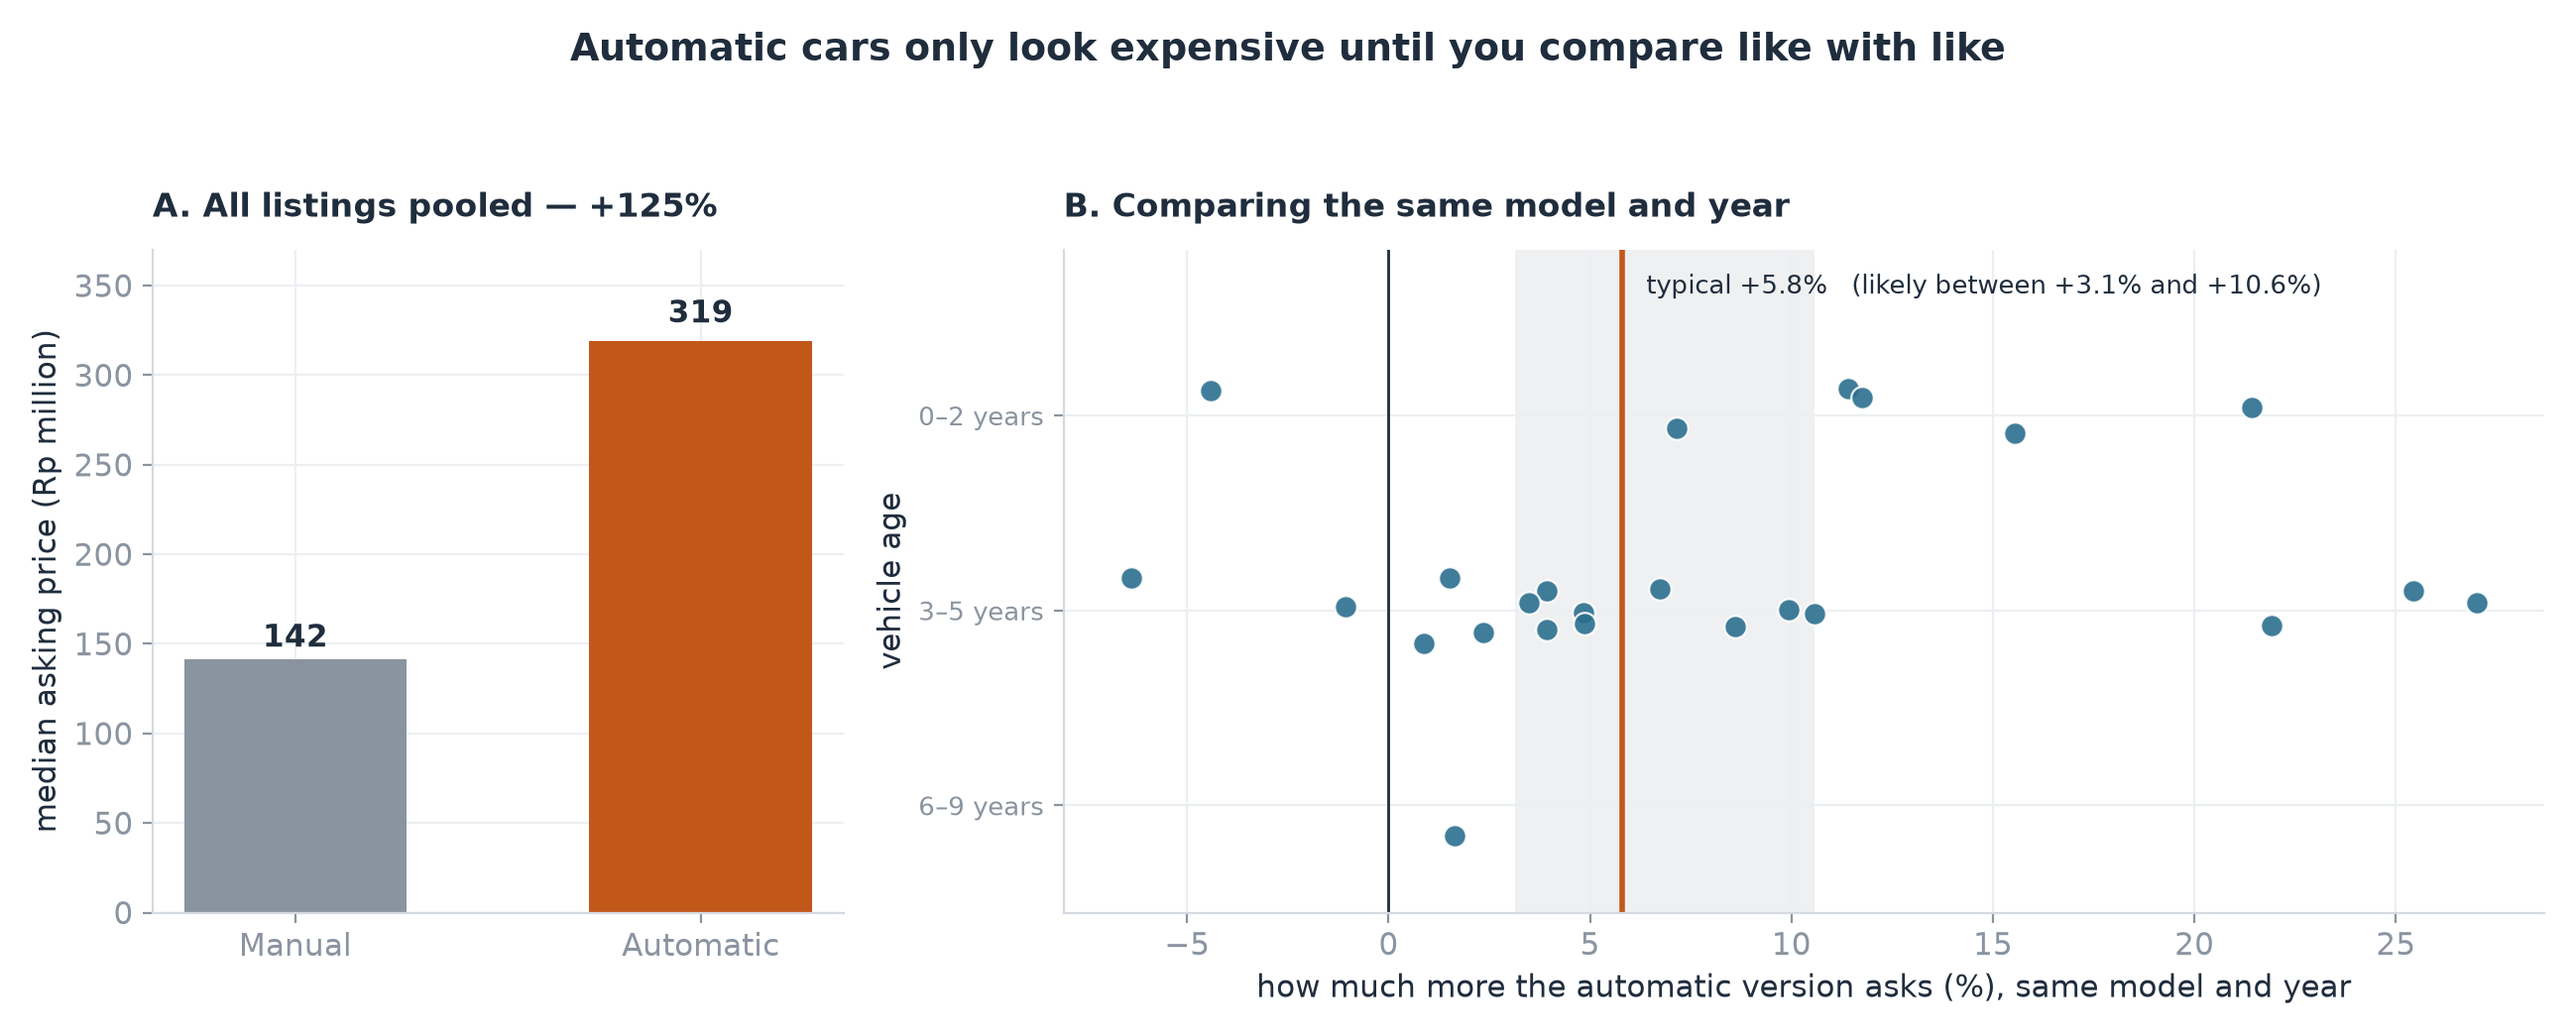
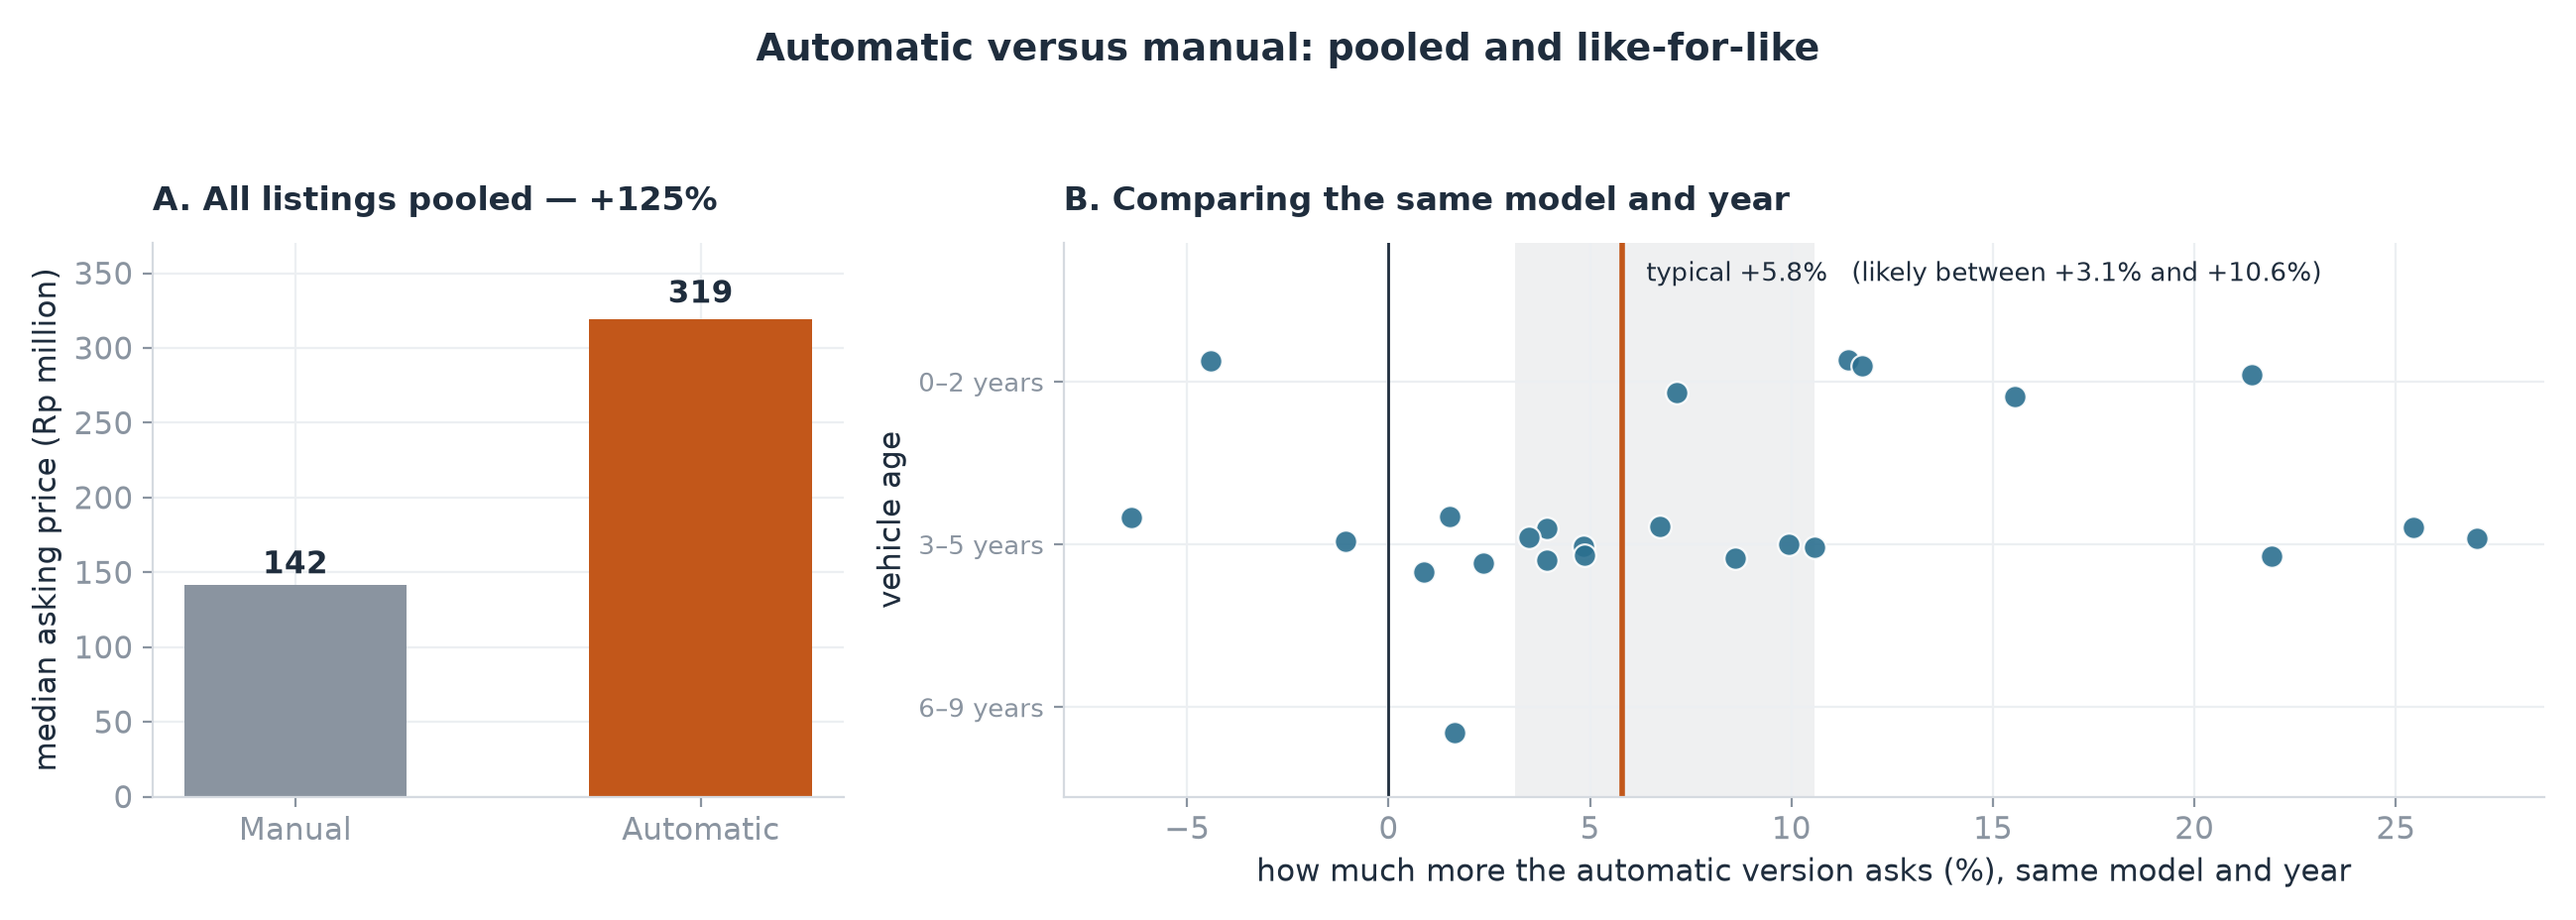
Give charts descriptive titles and tighten the canvas
Replace the finding-style titles with plain descriptive labels such as 'Value lost per year, by brand (%)', centre every title on the figure rather than on the axes, drop the redundant x-axis label on the first chart, shorten the retention-curve y-label so the two rows no longer collide, and reduce the height of the transmission figure and the feature-importance figure.

diff --git a/projects/02-used-car-market/eda.py b/projects/02-used-car-market/eda.py
@@ -154,12 +154,11 @@ def chart_brand_retention(series: pd.DataFrame) -> pd.DataFrame:
         fontsize=10,
     )
     ax.invert_yaxis()
-    ax.set_xlim(0, loss_high.max() + 4)
     ax.set_xticks(range(0, 19, 3))
-    ax.set_xlabel("value lost per year (%)")
-    ax.set_title("Suzuki holds its value best; BMW loses it fastest",
-                 loc="center", pad=16, fontsize=13.5)
-    fig.tight_layout()
+    ax.set_xlim(0, loss_high.max() + 3.5)
+    fig.suptitle("Value lost per year, by brand (%)", x=0.5, y=0.985,
+                 ha="center", va="top", fontsize=13.5, fontweight="bold")
+    fig.tight_layout(rect=[0, 0, 1, 0.93])
     save(fig, "01_brand_retention.png")
     return summary
 
@@ -195,11 +194,11 @@ def chart_retention_curves(df: pd.DataFrame, series: pd.DataFrame) -> None:
     for ax in axes[-1]:
         ax.set_xlabel("age (years)")
     for ax in axes[:, 0]:
-        ax.set_ylabel("price index (100 = a one-year-old unit)")
+        ax.set_ylabel("price index")
     axes[0, 0].set_ylim(0, 145)
     axes[0, 0].set_xticks(range(1, 16, 2))
 
-    fig.suptitle("Every model loses value at its own pace",
+    fig.suptitle("Price index by model and vehicle age",
                  x=0.5, y=0.975, ha="center", va="top",
                  fontsize=13.5, fontweight="bold")
     fig.tight_layout(rect=[0, 0, 1, 0.92])
@@ -237,7 +236,7 @@ def transmission_cells(df: pd.DataFrame) -> pd.DataFrame:
 
 def chart_transmission(df: pd.DataFrame, cells: pd.DataFrame) -> None:
     fig, (ax1, ax2) = plt.subplots(
-        1, 2, figsize=(13, 5.2), gridspec_kw={"width_ratios": [0.7, 1.5]}
+        1, 2, figsize=(13, 4.6), gridspec_kw={"width_ratios": [0.7, 1.5]}
     )
 
     # A - raw comparison
@@ -284,7 +283,7 @@ def chart_transmission(df: pd.DataFrame, cells: pd.DataFrame) -> None:
     ax2.set_xlabel("how much more the automatic version asks (%), same model and year")
     ax2.set_title("B. Comparing the same model and year", loc="left", pad=12)
 
-    fig.suptitle("Automatic cars only look expensive until you compare like with like",
+    fig.suptitle("Automatic versus manual: pooled and like-for-like",
                  x=0.5, y=0.975, ha="center", va="top",
                  fontsize=13.5, fontweight="bold")
     fig.tight_layout(rect=[0, 0, 1, 0.92])
@@ -361,7 +360,7 @@ def chart_mileage(df: pd.DataFrame) -> dict:
     ax2.text(med + 1.2, 0.60, f"typical {abs(med):.1f}% cheaper", ha="left", va="center",
              fontsize=11, color=ACCENT, fontweight="bold")
 
-    fig.suptitle("High mileage looks expensive — until you compare the same model",
+    fig.suptitle("Price by mileage: pooled and like-for-like",
                  x=0.5, y=0.975, ha="center", va="top",
                  fontsize=13.5, fontweight="bold")
     fig.tight_layout(rect=[0, 0, 1, 0.92])
@@ -405,7 +404,7 @@ def chart_structure(df: pd.DataFrame) -> None:
     axes[2].set_xlabel("% of listings")
     axes[2].set_title("Brand origin", loc="left", pad=10)
 
-    fig.suptitle("The marketplace is mostly SUVs from Japanese brands",
+    fig.suptitle("Marketplace composition",
                  x=0.5, ha="center", fontsize=13.5, fontweight="bold")
     fig.tight_layout(rect=[0, 0, 1, 0.90])
     save(fig, "05_market_structure.png")

diff --git a/projects/02-used-car-market/model.py b/projects/02-used-car-market/model.py
@@ -377,7 +377,7 @@ def main() -> None:
     axb.set_xlabel("extra price the badge adds, beyond the specifications (%)")
     axb.set_title("B. Which badge carries a premium", loc="left", pad=12)
 
-    fig.suptitle("Where a car is sold hardly matters. Which car it is, matters a lot.",
+    fig.suptitle("Price by province, and the brand premium",
                  x=0.5, y=0.975, ha="center", va="top",
                  fontsize=13.5, fontweight="bold")
     fig.tight_layout(rect=[0, 0, 1, 0.92])
@@ -396,9 +396,9 @@ def main() -> None:
     ax.set_yticklabels([f"{b} {m}" for b, m in pick.index], fontsize=9)
     ax.axvline(0, color=INK, lw=1)
     ax.set_xlabel("price compared with what the car's specifications suggest (%)")
-    ax.set_title("Some models sell far below what their specifications suggest",
-                 loc="center", pad=14, fontsize=13.5)
-    fig.tight_layout()
+    fig.suptitle("Price versus specifications, by model", x=0.5, y=0.985,
+                 ha="center", va="top", fontsize=13.5, fontweight="bold")
+    fig.tight_layout(rect=[0, 0, 1, 0.93])
     fig.savefig(IMAGES / "08_model_bargains.png", bbox_inches="tight",
                 pad_inches=0.16, facecolor="white")
     plt.close(fig)
@@ -428,9 +428,9 @@ def main() -> None:
     ax.set_yticklabels([DISPLAY.get(names[i], names[i]) for i in top], fontsize=10)
     ax.set_xlabel("how much worse the prediction gets without this detail\n"
                   "(higher = the price depends on it more)")
-    ax.set_title("The price depends on the brand, the model and the engine",
-                 loc="center", pad=14, fontsize=13.5)
-    fig.tight_layout()
+    fig.suptitle("How much each detail affects the price", x=0.5, y=0.985,
+                 ha="center", va="top", fontsize=13.5, fontweight="bold")
+    fig.tight_layout(rect=[0, 0, 1, 0.93])
     IMAGES.mkdir(exist_ok=True)
     fig.savefig(IMAGES / "06_feature_importance.png", bbox_inches="tight",
                 pad_inches=0.16, facecolor="white")
